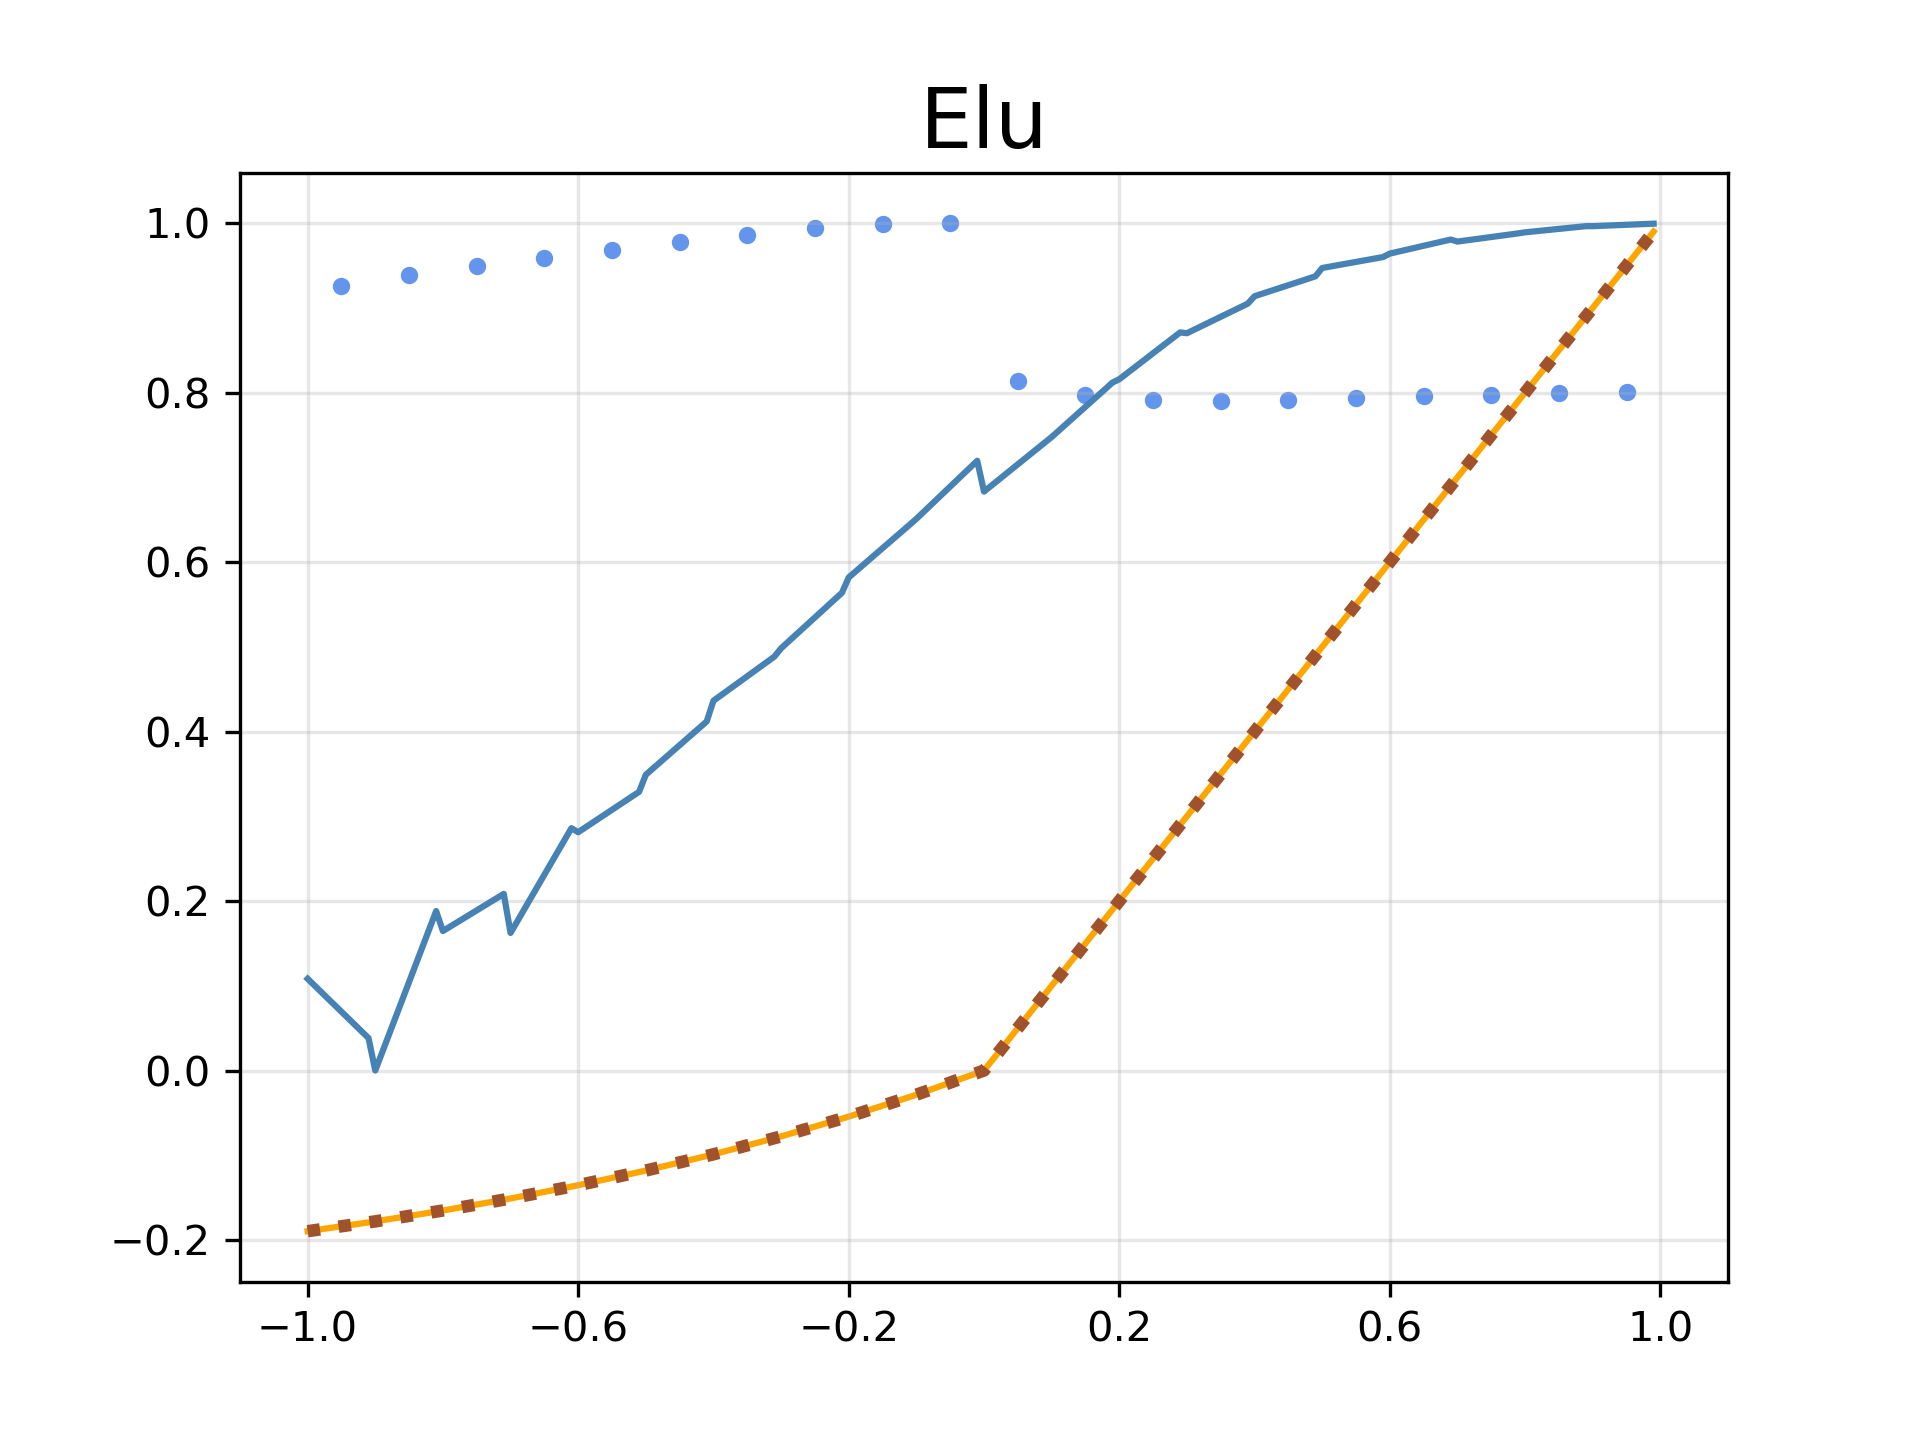
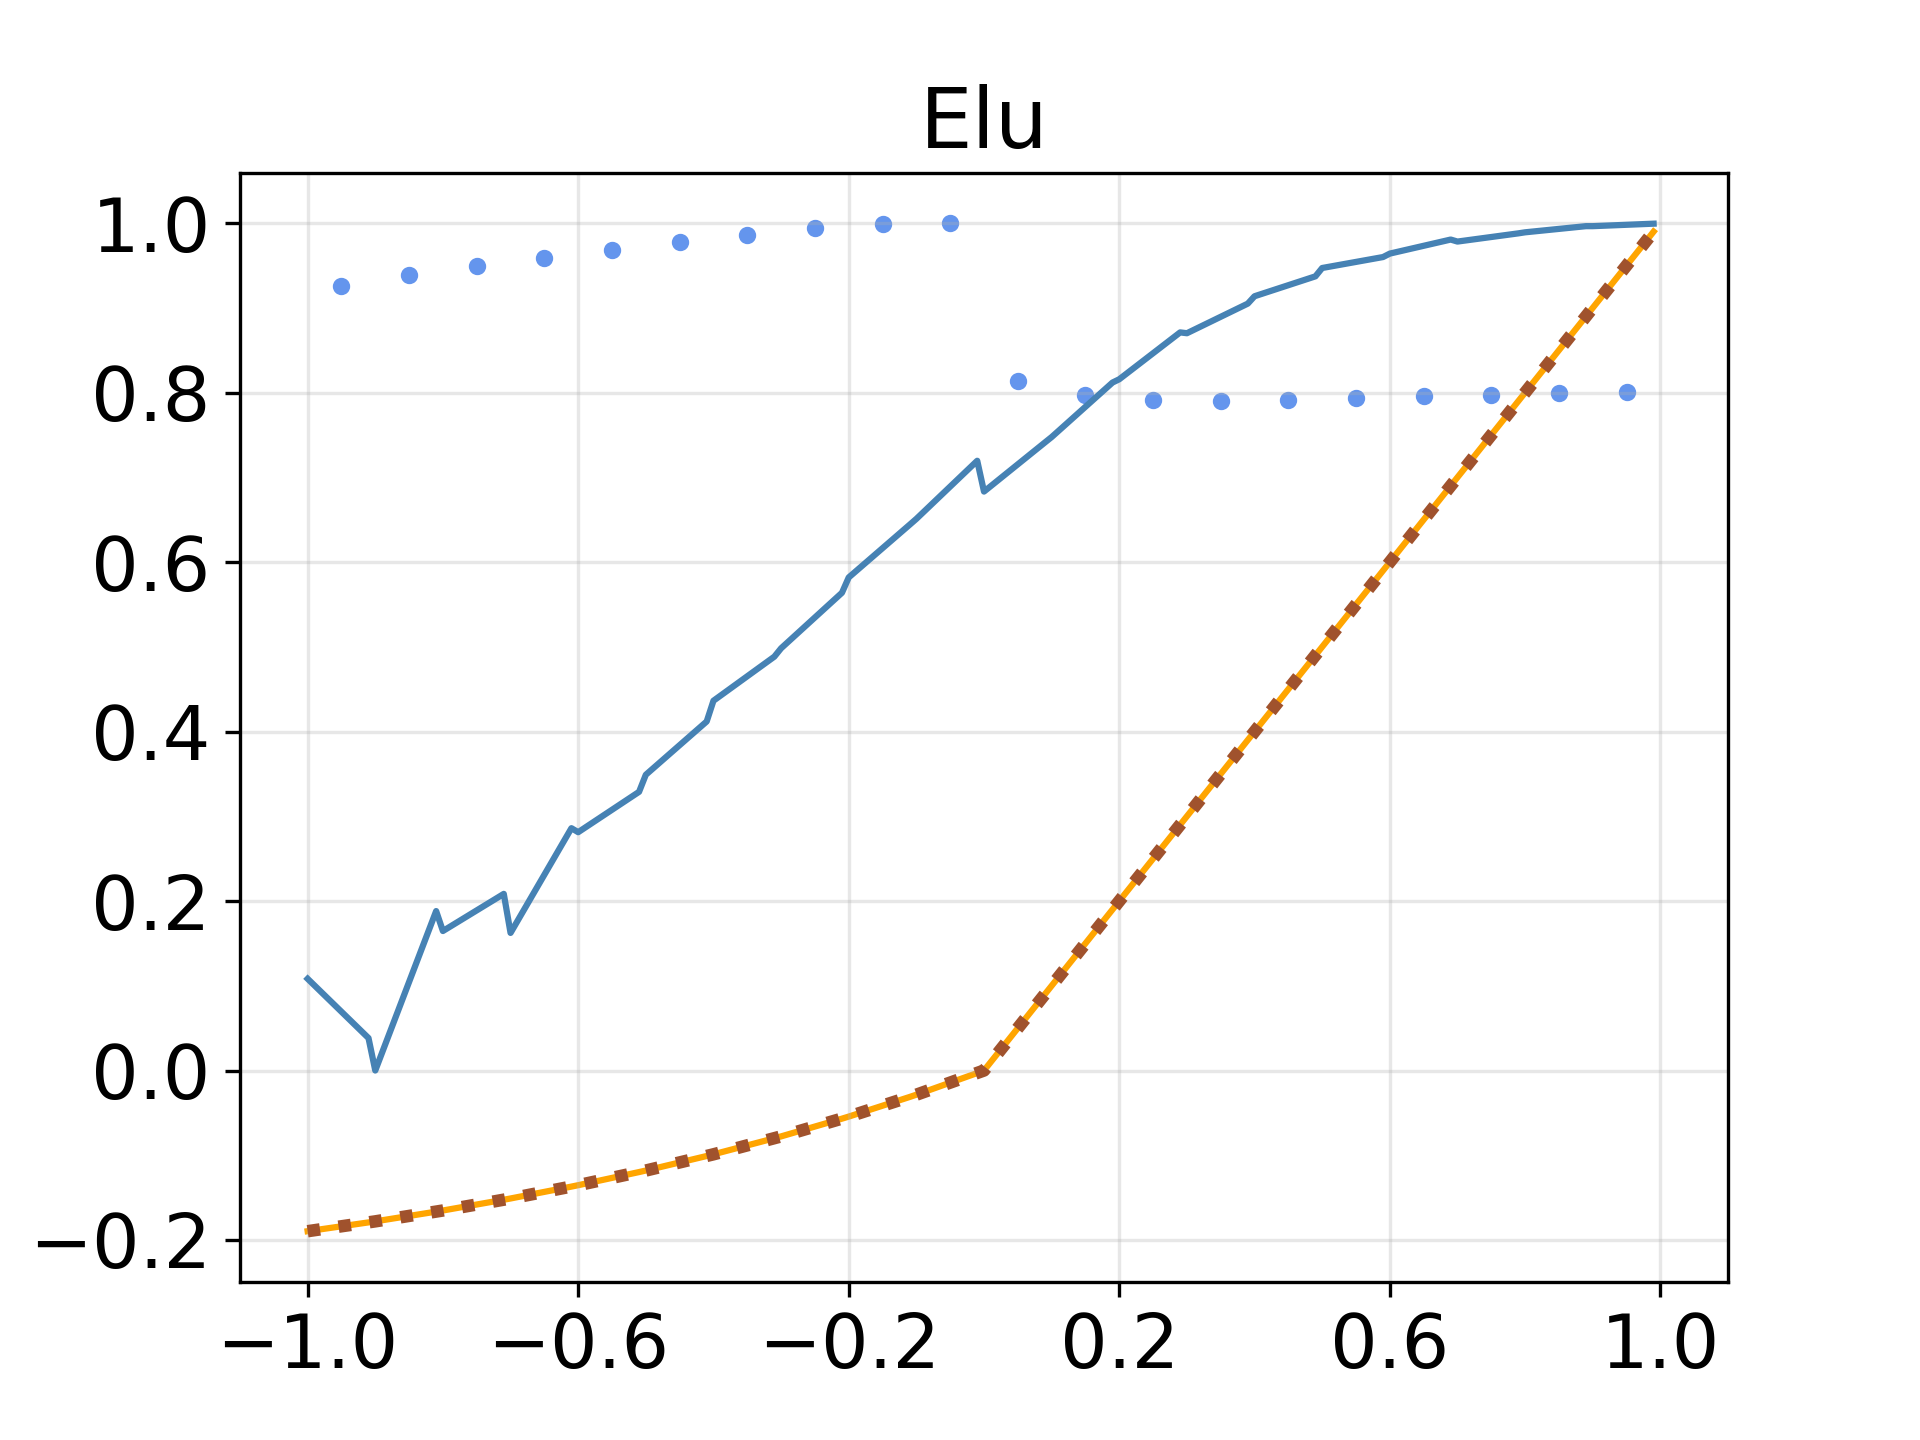
All experiment + results ok Legend in Viz_single.py

diff --git a/Viz_single.py b/Viz_single.py
@@ -14,6 +14,7 @@ def plot_activation(x, y, qy, cy, x_fid, fid, label, approach):
     ax.grid(alpha=0.3)
     ax.set_xticks(np.round(np.arange(-1, 1.1, .4), 1).tolist())
     ax.set_title(label, size=20)
+    ax.tick_params(labelsize=18)
     plt.savefig('results/single/'+label+'_'+approach+'.png', dpi=300)
     plt.show()
     # ax.set_yticks(np.round(np.arange(-.2, 1.05, .2),1).tolist())
@@ -49,3 +50,21 @@ plot_activation(x, y, qy, cy, x_fid, fid, 'Relu', approach)
 x, y, qy, cy, x_fid, fid = load_data('elu', approach)
 plot_activation(x, y, qy, cy, x_fid, fid, 'Elu', approach)
 
+# Plot Legend
+# ax = plt.subplot()
+# ax.plot(x, y, color='orange', label='Classic spline', zorder=1)
+# ax.plot(x, qy, color='steelblue', label='Full QSpline')
+# ax.plot(x, cy, label='Activation', color='sienna', linestyle='dotted', dashes=(1, 1.5), zorder=2, linewidth=3)
+# ax.scatter(x_fid, fid, color='cornflowerblue', label='Fidelity', s=10)
+# ax.set_xlim(-1.1, 1.1)
+# # ax.set_ylim(-.2, 1.05)
+# ax.grid(alpha=0.3)
+# ax.set_xticks(np.round(np.arange(-1, 1.1, .4), 1).tolist())
+# #ax.set_title(label, size=20)
+# ax.tick_params(labelsize=18)
+#
+# fig = plt.figure(figsize=(6, 1))
+# handles, labels = ax.get_legend_handles_labels()
+# fig.legend(handles, labels, loc='center', ncol=4)
+# plt.savefig('results/legend_Full.png', dpi=300, bbox_inches='tight')
+# plt.show()

diff --git a/All_viz.py b/All_viz.py
@@ -24,6 +24,7 @@ def viz_all(approach = 'Hybrid'):
     x, y, qy, cy, x_fid, fid = load_data('elu', approach)
     single_plot(4, x, y, qy, cy, x_fid, fid, 'Elu', coord=[0.83, 0.1])
 
+
     fig.savefig('results/' +'all_' + approach + '.png', dpi = 500, bbox_inches='tight')
     plt.show()
     plt.close()
